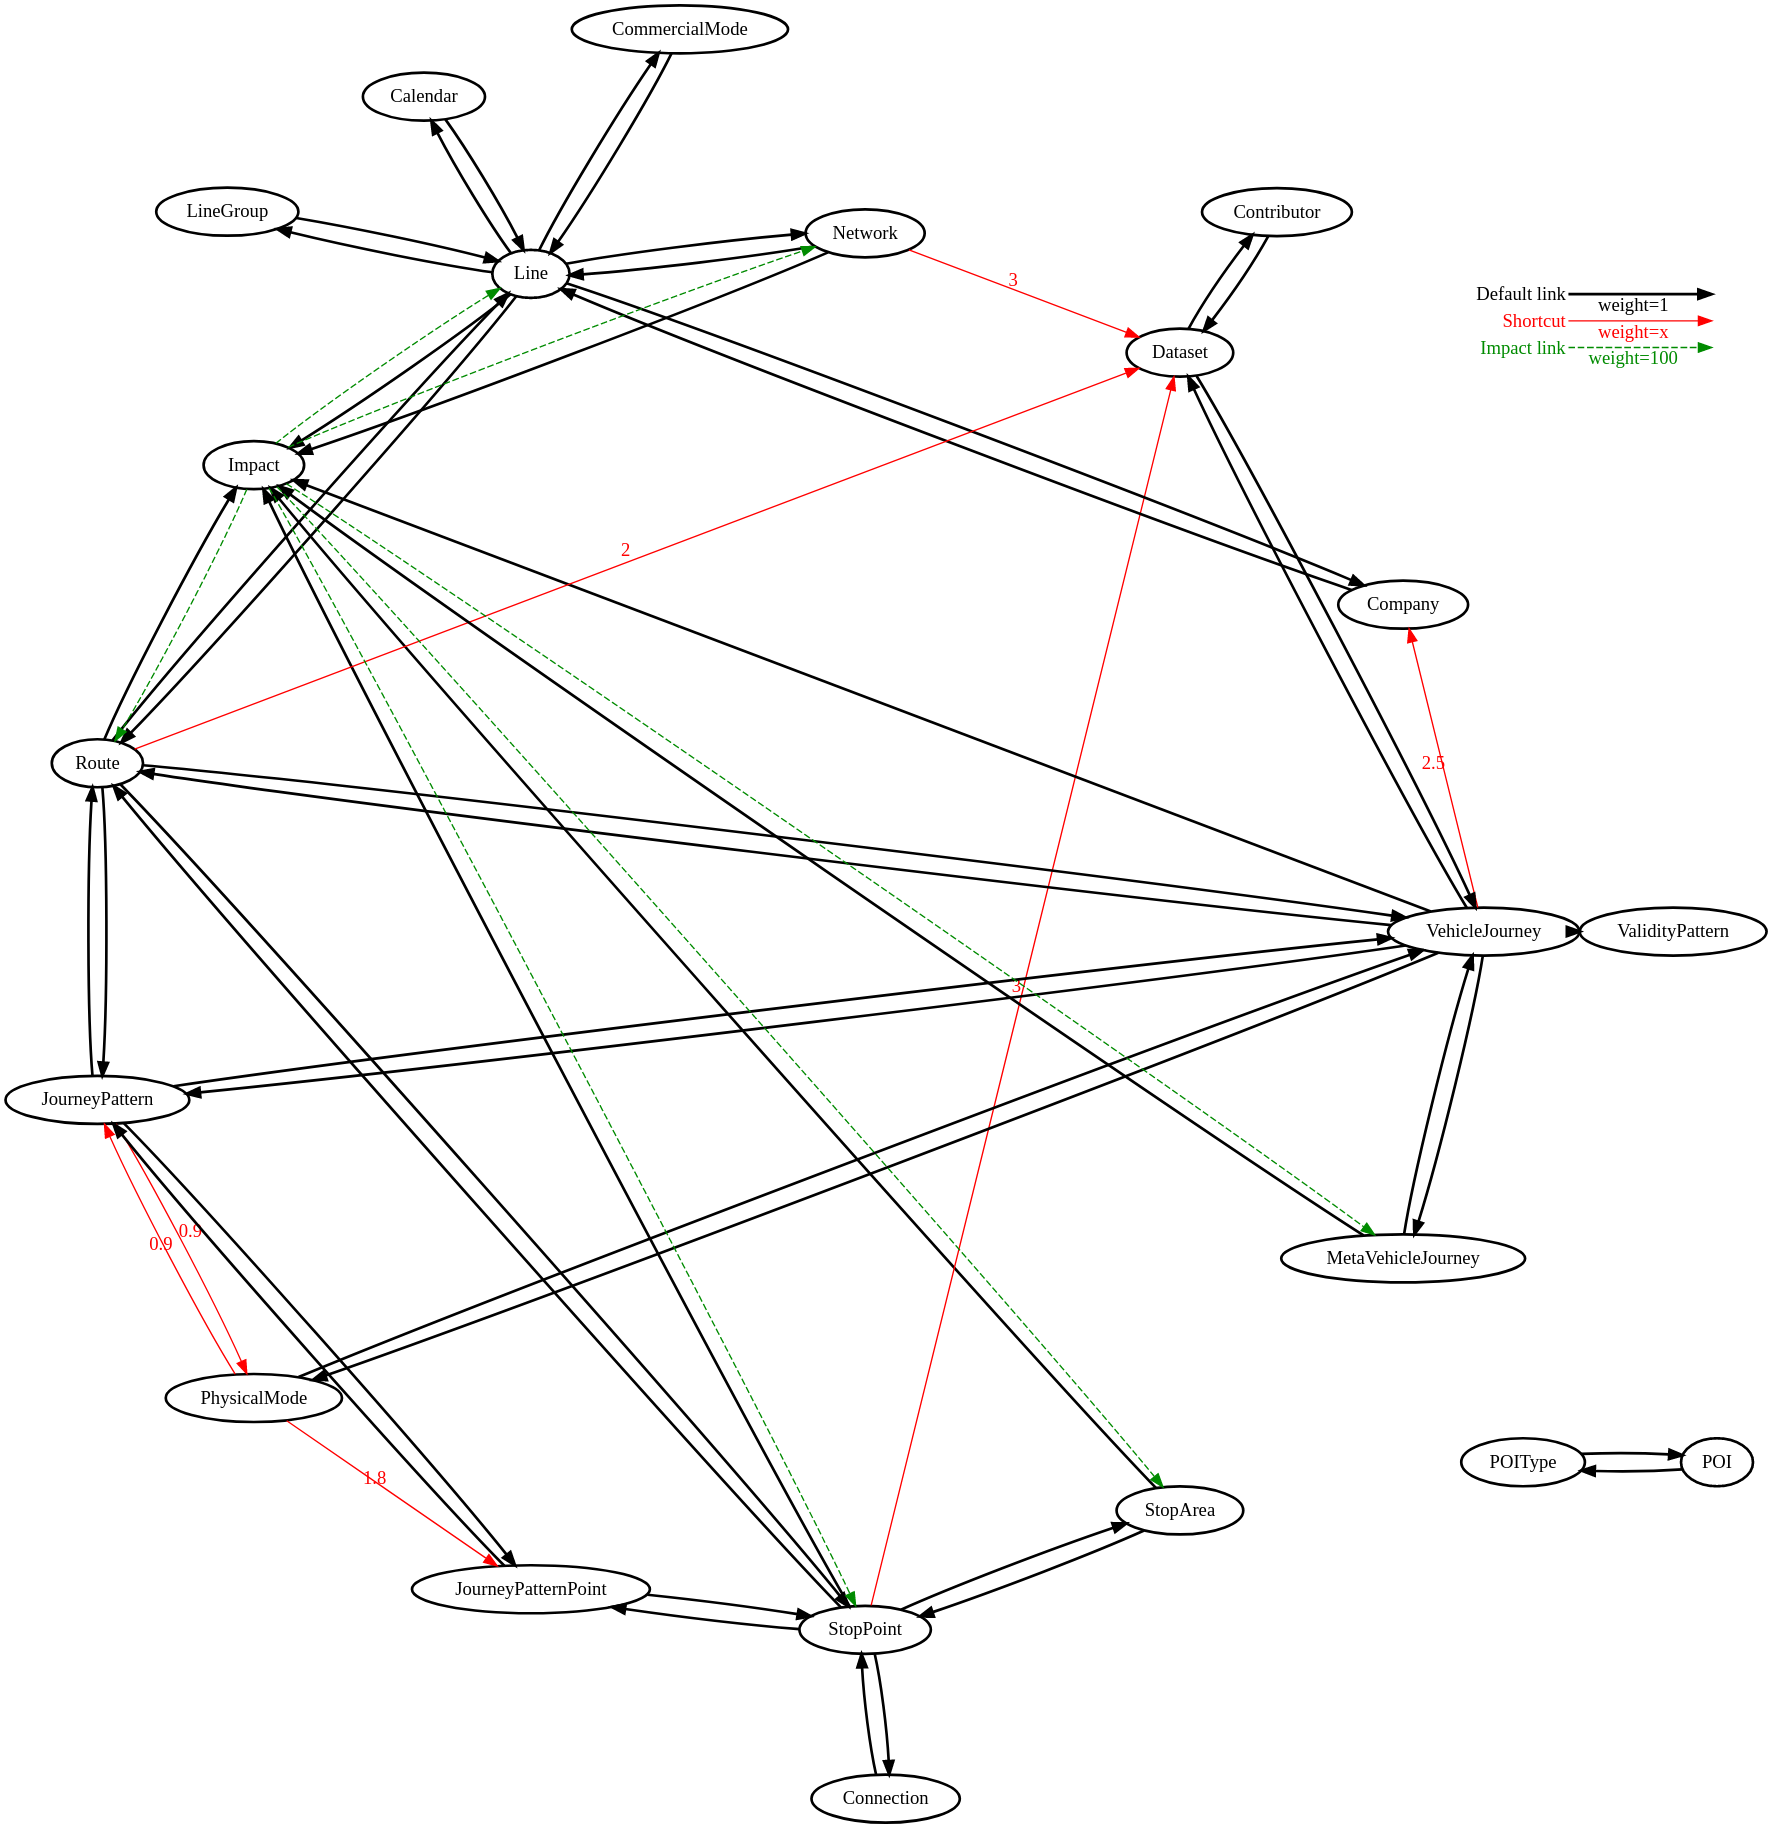
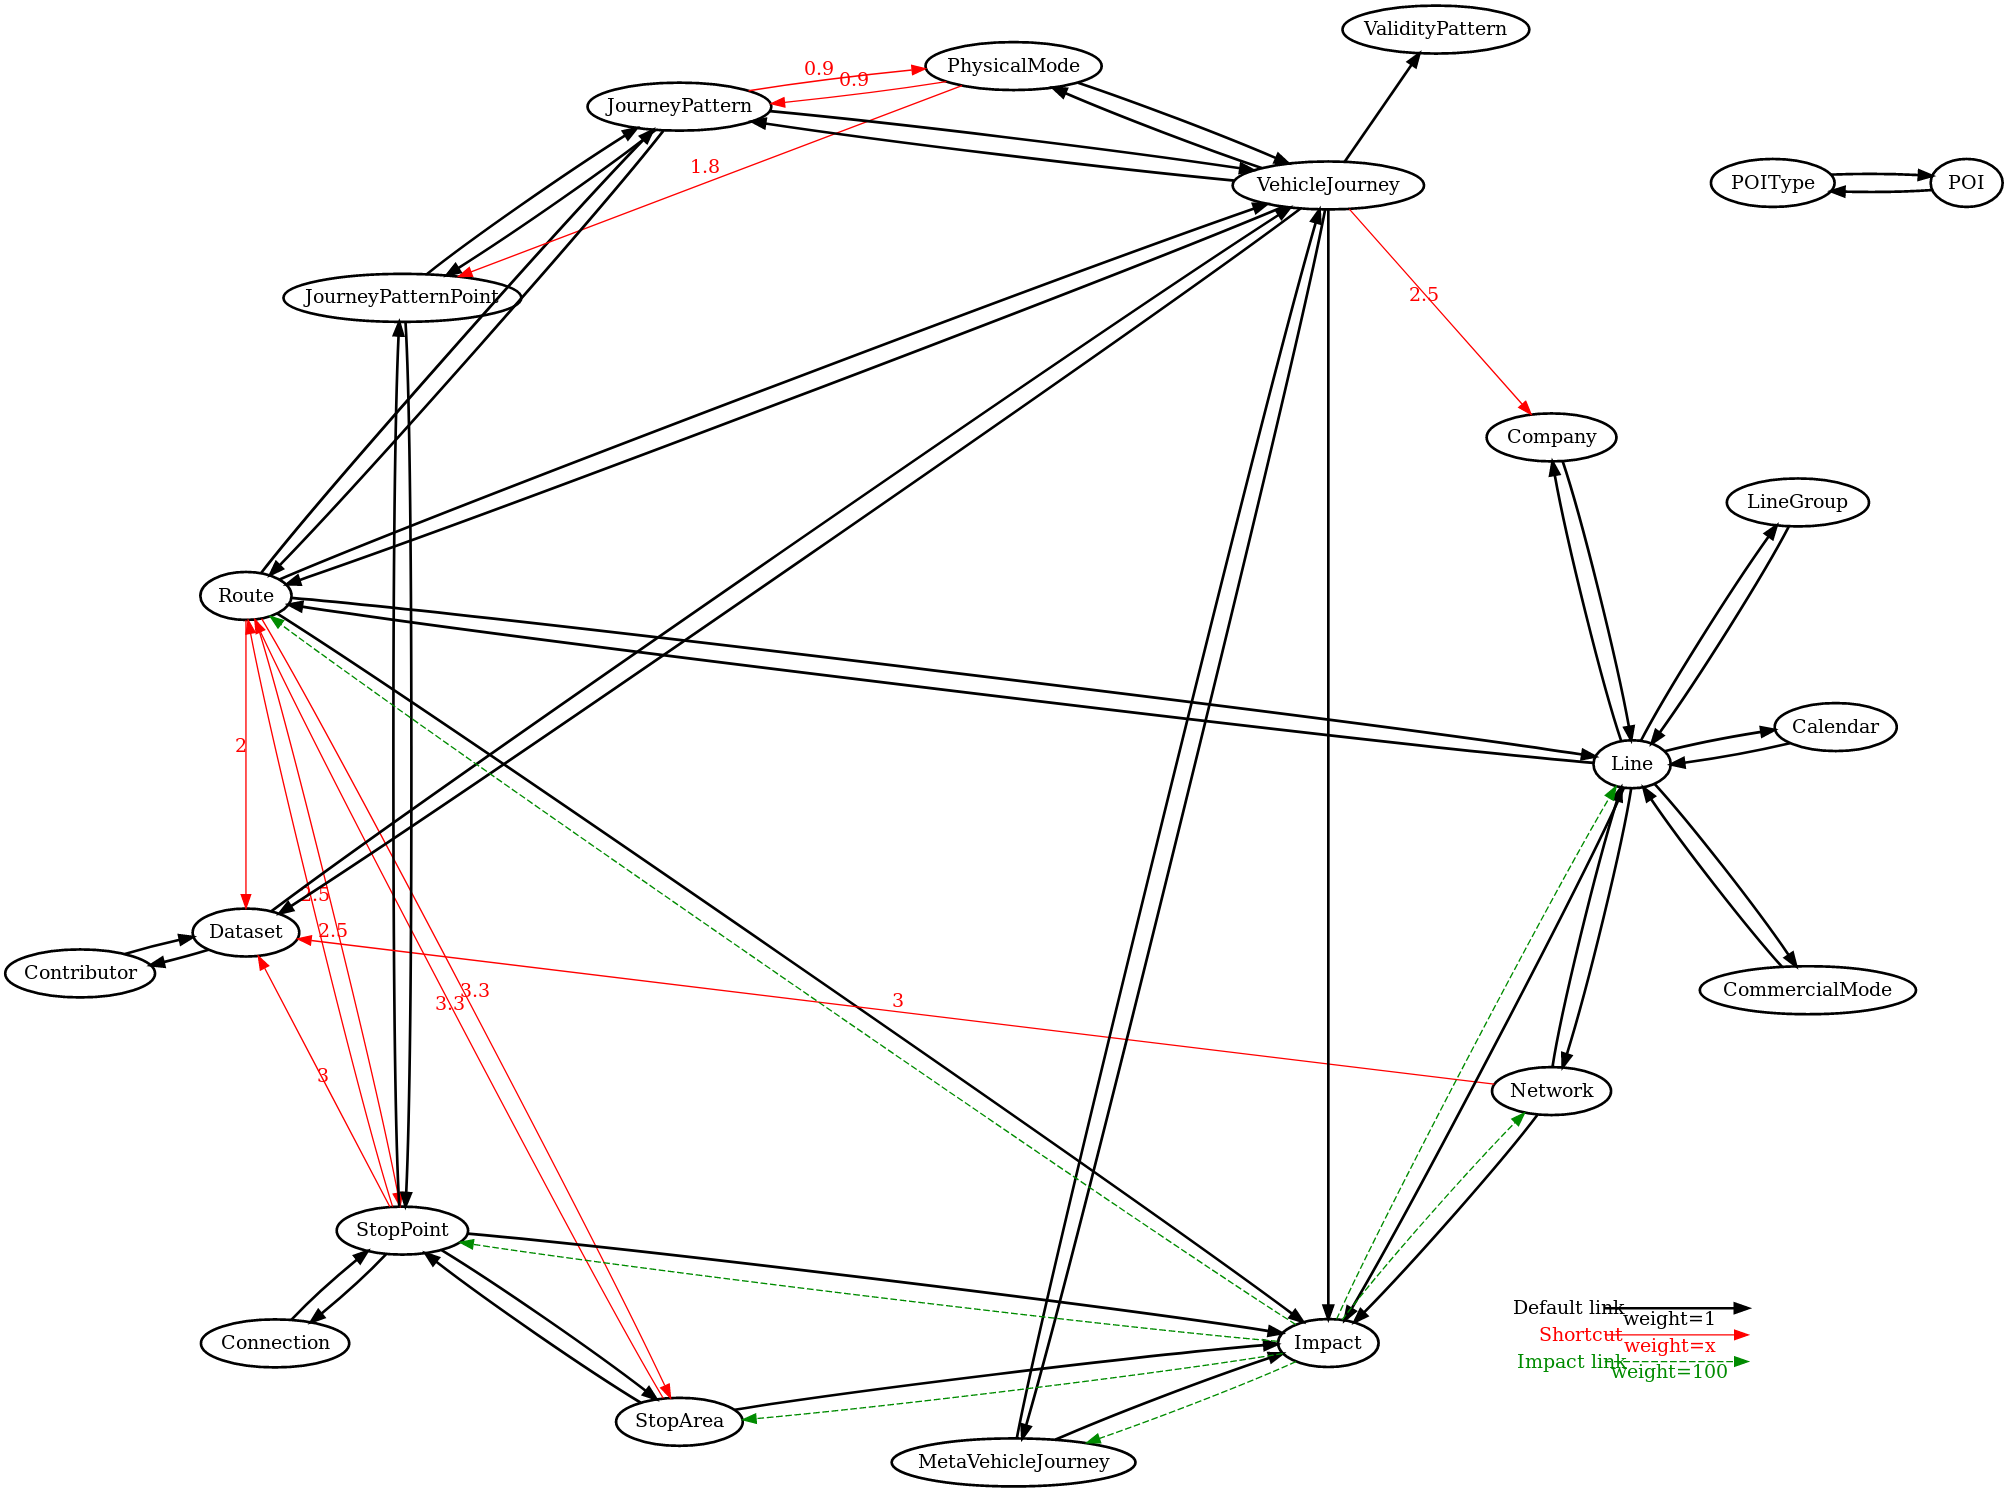
PTRef: Doc - update graph
Added Route <-> StopPoint (2.5)
and Route <-> StopArea (3.3)

diff --git a/documentation/rfc/ptref_grammar.md b/documentation/rfc/ptref_grammar.md
@@ -173,7 +173,7 @@ The graph is as follow (edges may have weight to avoid unwanted behavior):
 
 ![pt_graph](../diagrams/pt_graph.png)
 
-[edit_graph](https://dreampuf.github.io/GraphvizOnline/#%0Adigraph%20G%20%7B%0A%20%20%20%20subgraph%20cluster_0%20%7B%0A%20%20%20%20%20%20%20%20node%20%5Bstyle%3D%22bold%22%5D%0A%20%20%20%20%20%20%20%20StopArea%20-%3E%20StopPoint%20%5Bstyle%3D%22bold%22%5D%0A%20%20%20%20%20%20%20%20Network%20-%3E%20Line%20%5Bstyle%3D%22bold%22%5D%0A%20%20%20%20%20%20%20%20Company%20-%3E%20Line%20%5Bstyle%3D%22bold%22%5D%0A%20%20%20%20%20%20%20%20CommercialMode%20-%3E%20Line%20%5Bstyle%3D%22bold%22%5D%0A%20%20%20%20%20%20%20%20PhysicalMode%20-%3E%20VehicleJourney%20%5Bstyle%3D%22bold%22%5D%0A%20%20%20%20%20%20%20%20PhysicalMode%20-%3E%20JourneyPattern%20%5B%20label%3D%220.9%22%20fontcolor%3D%22red%22%20color%3D%22red%22%20%5D%0A%20%20%20%20%20%20%20%20PhysicalMode%20-%3E%20JourneyPatternPoint%20%5B%20label%3D%221.8%22%20fontcolor%3D%22red%22%20color%3D%22red%22%20%5D%0A%20%20%20%20%20%20%20%20Line%20-%3E%20CommercialMode%20%5Bstyle%3D%22bold%22%5D%0A%20%20%20%20%20%20%20%20Line%20-%3E%20Company%20%5Bstyle%3D%22bold%22%5D%0A%20%20%20%20%20%20%20%20Line%20-%3E%20Network%20%5Bstyle%3D%22bold%22%5D%0A%20%20%20%20%20%20%20%20Line%20-%3E%20Route%20%5Bstyle%3D%22bold%22%5D%0A%20%20%20%20%20%20%20%20Route%20-%3E%20JourneyPattern%20%5Bstyle%3D%22bold%22%5D%0A%20%20%20%20%20%20%20%20Route%20-%3E%20Line%20%5Bstyle%3D%22bold%22%5D%0A%20%20%20%20%20%20%20%20Route%20-%3E%20VehicleJourney%20%5Bstyle%3D%22bold%22%5D%0A%20%20%20%20%20%20%20%20Route%20-%3E%20StopPoint%20%5B%20style%3D%22bold%22%20%5D%0A%20%20%20%20%20%20%20%20JourneyPattern%20-%3E%20Route%20%5Bstyle%3D%22bold%22%5D%0A%20%20%20%20%20%20%20%20JourneyPattern%20-%3E%20JourneyPatternPoint%20%5Bstyle%3D%22bold%22%5D%0A%20%20%20%20%20%20%20%20JourneyPattern%20-%3E%20VehicleJourney%20%5Bstyle%3D%22bold%22%5D%0A%20%20%20%20%20%20%20%20JourneyPattern%20-%3E%20PhysicalMode%20%5B%20label%3D%220.9%22%20fontcolor%3D%22red%22%20color%3D%22red%22%20%5D%0A%20%20%20%20%20%20%20%20VehicleJourney%20-%3E%20Route%20%5Bstyle%3D%22bold%22%5D%0A%20%20%20%20%20%20%20%20VehicleJourney%20-%3E%20JourneyPattern%20%5Bstyle%3D%22bold%22%5D%0A%20%20%20%20%20%20%20%20VehicleJourney%20-%3E%20Company%20%5B%20label%3D%222.5%22%20fontcolor%3D%22red%22%20color%3D%22red%22%20%5D%0A%20%20%20%20%20%20%20%20VehicleJourney%20-%3E%20PhysicalMode%20%5Bstyle%3D%22bold%22%5D%0A%20%20%20%20%20%20%20%20VehicleJourney%20-%3E%20ValidityPattern%20%5Bstyle%3D%22bold%22%5D%20%0A%20%20%20%20%20%20%20%20VehicleJourney%20-%3E%20MetaVehicleJourney%20%5Bstyle%3D%22bold%22%5D%0A%20%20%20%20%20%20%20%20VehicleJourney%20-%3E%20Dataset%20%5Bstyle%3D%22bold%22%5D%0A%20%20%20%20%20%20%20%20JourneyPatternPoint%20-%3E%20JourneyPattern%20%5Bstyle%3D%22bold%22%5D%0A%20%20%20%20%20%20%20%20JourneyPatternPoint%20-%3E%20StopPoint%20%5Bstyle%3D%22bold%22%5D%20%0A%20%20%20%20%20%20%20%20StopPoint%20-%3E%20StopArea%20%5Bstyle%3D%22bold%22%5D%0A%20%20%20%20%20%20%20%20StopPoint%20-%3E%20JourneyPatternPoint%20%5Bstyle%3D%22bold%22%5D%0A%20%20%20%20%20%20%20%20StopPoint%20-%3E%20Connection%20%5Bstyle%3D%22bold%22%5D%0A%20%20%20%20%20%20%20%20StopPoint%20-%3E%20Route%20%5B%20style%3D%22bold%22%20%5D%0A%20%20%20%20%20%20%20%20Connection%20-%3E%20StopPoint%20%5Bstyle%3D%22bold%22%5D%0A%20%20%20%20%20%20%20%20POIType%20-%3E%20POI%20%5Bstyle%3D%22bold%22%5D%0A%20%20%20%20%20%20%20%20POI%20-%3E%20POIType%20%5Bstyle%3D%22bold%22%5D%0A%20%20%20%20%20%20%20%20Line%20-%3E%20Calendar%20%5Bstyle%3D%22bold%22%5D%0A%20%20%20%20%20%20%20%20Calendar%20-%3E%20Line%20%5Bstyle%3D%22bold%22%5D%0A%20%20%20%20%20%20%20%20Line%20-%3E%20LineGroup%20%5Bstyle%3D%22bold%22%5D%0A%20%20%20%20%20%20%20%20LineGroup%20-%3E%20Line%20%5Bstyle%3D%22bold%22%5D%0A%20%20%20%20%20%20%20%20MetaVehicleJourney%20-%3E%20VehicleJourney%20%5Bstyle%3D%22bold%22%5D%0A%20%20%20%20%20%20%20%20Dataset%20-%3E%20Contributor%20%5Bstyle%3D%22bold%22%5D%0A%20%20%20%20%20%20%20%20Dataset%20-%3E%20VehicleJourney%20%5Bstyle%3D%22bold%22%5D%0A%20%20%20%20%20%20%20%20Contributor%20-%3E%20Dataset%20%5Bstyle%3D%22bold%22%5D%0A%20%20%20%20%20%20%20%20Route%20-%3E%20Dataset%20%5B%20label%3D%222%22%20fontcolor%3D%22red%22%20color%3D%22red%22%20%5D%0A%20%20%20%20%20%20%20%20StopPoint%20-%3E%20Dataset%20%5B%20label%3D%223%22%20fontcolor%3D%22red%22%20color%3D%22red%22%20%5D%0A%20%20%20%20%20%20%20%20Network%20-%3E%20Dataset%20%5B%20label%3D%223%22%20fontcolor%3D%22red%22%20color%3D%22red%22%20%5D%0A%20%20%20%20%20%20%20%20StopPoint%20-%3E%20Impact%20%5Bstyle%3D%22bold%22%5D%0A%20%20%20%20%20%20%20%20Line%20-%3E%20Impact%20%5Bstyle%3D%22bold%22%5D%0A%20%20%20%20%20%20%20%20Route%20-%3E%20Impact%20%5Bstyle%3D%22bold%22%5D%0A%20%20%20%20%20%20%20%20StopArea%20-%3E%20Impact%20%5Bstyle%3D%22bold%22%5D%0A%20%20%20%20%20%20%20%20Network%20-%3E%20Impact%20%5Bstyle%3D%22bold%22%5D%0A%20%20%20%20%20%20%20%20VehicleJourney%20-%3E%20Impact%20%5Bstyle%3D%22bold%22%5D%0A%20%20%20%20%20%20%20%20MetaVehicleJourney%20-%3E%20Impact%20%5Bstyle%3D%22bold%22%5D%0A%20%20%20%20%20%20%20%20Impact%20-%3E%20Network%20%20%5B%20style%3D%22dashed%22%20fontcolor%3D%22green4%22%20color%3D%22green4%22%20%5D%0A%20%20%20%20%20%20%20%20Impact%20-%3E%20Line%20%20%5B%20style%3D%22dashed%22%20fontcolor%3D%22green4%22%20color%3D%22green4%22%20%5D%0A%20%20%20%20%20%20%20%20Impact%20-%3E%20Route%20%20%5B%20style%3D%22dashed%22%20fontcolor%3D%22green4%22%20color%3D%22green4%22%20%5D%0A%20%20%20%20%20%20%20%20Impact%20-%3E%20StopArea%20%20%5B%20style%3D%22dashed%22%20fontcolor%3D%22green4%22%20color%3D%22green4%22%20%5D%0A%20%20%20%20%20%20%20%20Impact%20-%3E%20StopPoint%20%20%5B%20style%3D%22dashed%22%20fontcolor%3D%22green4%22%20color%3D%22green4%22%20%5D%0A%20%20%20%20%20%20%20%20Impact%20-%3E%20MetaVehicleJourney%20%20%5B%20style%3D%22dashed%22%20fontcolor%3D%22green4%22%20color%3D%22green4%22%20%5D%0A%20%20%20%20%7D%0A%0A%20%20%20%20subgraph%20cluster_1%20%7B%0A%20%20%20%20%20%20%20%20%23rank%3Dsink%0A%20%20%20%20%20%20%20%20%23rankdir%3DLR%0A%20%20%20%20%20%20%20%20node%20%5Bshape%3Dplaintext%5D%0A%20%20%20%20%20%20%20%20style%3D%22filled%22%0A%20%20%20%20%20%20%20%20style%3Dfilled%0A%09%09color%3Dlightgrey%0A%20%20%20%20%20%20%20%20%23label%20%3D%20%22Legend%22%3B%0A%20%20%20%20%20%20%20%20key%20%5Blabel%3D%3C%3Ctable%20border%3D%220%22%20cellpadding%3D%222%22%20cellspacing%3D%220%22%20cellborder%3D%220%22%3E%0A%20%20%20%20%20%20%20%20%20%20%3Ctr%3E%3Ctd%20align%3D%22right%22%20port%3D%22i1%22%3E%3Cfont%20color%3D%22black%22%3EDefault%20link%3C%2Ffont%3E%3C%2Ftd%3E%3C%2Ftr%3E%0A%20%20%20%20%20%20%20%20%20%20%3Ctr%3E%3Ctd%20align%3D%22right%22%20port%3D%22i2%22%3E%3Cfont%20color%3D%22red%22%3EShortcut%3C%2Ffont%3E%3C%2Ftd%3E%3C%2Ftr%3E%0A%20%20%20%20%20%20%20%20%20%20%3Ctr%3E%3Ctd%20align%3D%22right%22%20port%3D%22i3%22%3E%3Cfont%20color%3D%22green4%22%3EImpact%20link%3C%2Ffont%3E%3C%2Ftd%3E%3C%2Ftr%3E%0A%20%20%20%20%20%20%20%20%20%20%3C%2Ftable%3E%3E%5D%0A%20%20%20%20%20%20%20%20key2%20%5Blabel%3D%3C%3Ctable%20border%3D%220%22%20cellpadding%3D%222%22%20cellspacing%3D%220%22%20cellborder%3D%220%22%3E%0A%20%20%20%20%20%20%20%20%20%20%3Ctr%3E%3Ctd%20port%3D%22i1%22%3E%26nbsp%3B%3C%2Ftd%3E%3C%2Ftr%3E%0A%20%20%20%20%20%20%20%20%20%20%3Ctr%3E%3Ctd%20port%3D%22i2%22%3E%26nbsp%3B%3C%2Ftd%3E%3C%2Ftr%3E%0A%20%20%20%20%20%20%20%20%20%20%3Ctr%3E%3Ctd%20port%3D%22i3%22%3E%26nbsp%3B%3C%2Ftd%3E%3C%2Ftr%3E%0A%20%20%20%20%20%20%20%20%20%20%3C%2Ftable%3E%3E%5D%0A%20%20%20%20%20%20%20%20key%3Ai1%3Ae%20-%3E%20key2%3Ai1%3Aw%20%5B%20label%3D%22weight%3D1%22%20style%3D%22bold%22%5D%0A%20%20%20%20%20%20%20%20key%3Ai2%3Ae%20-%3E%20key2%3Ai2%3Aw%20%5B%20label%3D%22weight%3Dx%22%20fontcolor%3D%22red%22%20color%3D%22red%22%20%5D%0A%20%20%20%20%20%20%20%20key%3Ai3%3Ae%20-%3E%20key2%3Ai3%3Aw%20%5B%20label%3D%22weight%3D100%22%20style%3D%22dashed%22%20fontcolor%3D%22green4%22%20color%3D%22green4%22%20%5D%0A%20%20%20%20%20%20%7D%0A%20%20%0A%7D)
+[edit_graph](https://dreampuf.github.io/GraphvizOnline/#%0Adigraph%20G%20%7B%0A%20%20%20%20layout%3D%22circo%22%0A%20%20%20%20subgraph%20cluster_0%20%7B%0A%20%20%20%20%20%20%20%20node%20%5Bstyle%3D%22bold%22%5D%0A%20%20%20%20%20%20%20%20edge%20%5Bstyle%3D%22bold%22%5D%0A%0A%20%20%20%20%20%20%20%20StopArea%20-%3E%20Route%20%5Blabel%3D%223.3%22%20fontcolor%3D%22red%22%20color%3D%22red%22%20style%3D%22normal%22%5D%0A%20%20%20%20%20%20%20%20StopArea%20-%3E%20StopPoint%0A%20%20%20%20%20%20%20%20Network%20-%3E%20Line%0A%20%20%20%20%20%20%20%20Company%20-%3E%20Line%0A%20%20%20%20%20%20%20%20CommercialMode%20-%3E%20Line%0A%20%20%20%20%20%20%20%20PhysicalMode%20-%3E%20VehicleJourney%0A%20%20%20%20%20%20%20%20PhysicalMode%20-%3E%20JourneyPattern%20%5Blabel%3D%220.9%22%20fontcolor%3D%22red%22%20color%3D%22red%22%20style%3D%22normal%22%5D%0A%20%20%20%20%20%20%20%20PhysicalMode%20-%3E%20JourneyPatternPoint%20%5Blabel%3D%221.8%22%20fontcolor%3D%22red%22%20color%3D%22red%22%20style%3D%22normal%22%5D%0A%20%20%20%20%20%20%20%20Line%20-%3E%20CommercialMode%0A%20%20%20%20%20%20%20%20Line%20-%3E%20Company%0A%20%20%20%20%20%20%20%20Line%20-%3E%20Network%0A%20%20%20%20%20%20%20%20Line%20-%3E%20Route%0A%20%20%20%20%20%20%20%20Route%20-%3E%20JourneyPattern%0A%20%20%20%20%20%20%20%20Route%20-%3E%20Line%0A%20%20%20%20%20%20%20%20Route%20-%3E%20VehicleJourney%0A%20%20%20%20%20%20%20%20Route%20-%3E%20StopPoint%20%5Blabel%3D%222.5%22%20fontcolor%3D%22red%22%20color%3D%22red%22%20style%3D%22normal%22%5D%0A%20%20%20%20%20%20%20%20Route%20-%3E%20StopArea%20%5Blabel%3D%223.3%22%20fontcolor%3D%22red%22%20color%3D%22red%22%20style%3D%22normal%22%5D%0A%20%20%20%20%20%20%20%20JourneyPattern%20-%3E%20Route%0A%20%20%20%20%20%20%20%20JourneyPattern%20-%3E%20JourneyPatternPoint%0A%20%20%20%20%20%20%20%20JourneyPattern%20-%3E%20VehicleJourney%0A%20%20%20%20%20%20%20%20JourneyPattern%20-%3E%20PhysicalMode%20%5Blabel%3D%220.9%22%20fontcolor%3D%22red%22%20color%3D%22red%22%20style%3D%22normal%22%5D%0A%20%20%20%20%20%20%20%20VehicleJourney%20-%3E%20Route%0A%20%20%20%20%20%20%20%20VehicleJourney%20-%3E%20JourneyPattern%0A%20%20%20%20%20%20%20%20VehicleJourney%20-%3E%20Company%20%5Blabel%3D%222.5%22%20fontcolor%3D%22red%22%20color%3D%22red%22%20style%3D%22normal%22%5D%0A%20%20%20%20%20%20%20%20VehicleJourney%20-%3E%20PhysicalMode%0A%20%20%20%20%20%20%20%20VehicleJourney%20-%3E%20ValidityPattern%0A%20%20%20%20%20%20%20%20VehicleJourney%20-%3E%20MetaVehicleJourney%0A%20%20%20%20%20%20%20%20VehicleJourney%20-%3E%20Dataset%0A%20%20%20%20%20%20%20%20JourneyPatternPoint%20-%3E%20JourneyPattern%0A%20%20%20%20%20%20%20%20JourneyPatternPoint%20-%3E%20StopPoint%0A%20%20%20%20%20%20%20%20StopPoint%20-%3E%20StopArea%0A%20%20%20%20%20%20%20%20StopPoint%20-%3E%20JourneyPatternPoint%0A%20%20%20%20%20%20%20%20StopPoint%20-%3E%20Connection%0A%20%20%20%20%20%20%20%20StopPoint%20-%3E%20Route%20%5Blabel%3D%222.5%22%20fontcolor%3D%22red%22%20color%3D%22red%22%20style%3D%22normal%22%5D%0A%20%20%20%20%20%20%20%20Connection%20-%3E%20StopPoint%0A%20%20%20%20%20%20%20%20POIType%20-%3E%20POI%0A%20%20%20%20%20%20%20%20POI%20-%3E%20POIType%0A%20%20%20%20%20%20%20%20Line%20-%3E%20Calendar%0A%20%20%20%20%20%20%20%20Calendar%20-%3E%20Line%0A%20%20%20%20%20%20%20%20Line%20-%3E%20LineGroup%0A%20%20%20%20%20%20%20%20LineGroup%20-%3E%20Line%0A%20%20%20%20%20%20%20%20MetaVehicleJourney%20-%3E%20VehicleJourney%0A%20%20%20%20%20%20%20%20Dataset%20-%3E%20Contributor%0A%20%20%20%20%20%20%20%20Dataset%20-%3E%20VehicleJourney%0A%20%20%20%20%20%20%20%20Contributor%20-%3E%20Dataset%0A%20%20%20%20%20%20%20%20Route%20-%3E%20Dataset%20%5Blabel%3D%222%22%20fontcolor%3D%22red%22%20color%3D%22red%22%20style%3D%22normal%22%5D%0A%20%20%20%20%20%20%20%20StopPoint%20-%3E%20Dataset%20%5Blabel%3D%223%22%20fontcolor%3D%22red%22%20color%3D%22red%22%20style%3D%22normal%22%5D%0A%20%20%20%20%20%20%20%20Network%20-%3E%20Dataset%20%5Blabel%3D%223%22%20fontcolor%3D%22red%22%20color%3D%22red%22%20style%3D%22normal%22%5D%0A%20%20%20%20%20%20%20%20StopPoint%20-%3E%20Impact%0A%20%20%20%20%20%20%20%20Line%20-%3E%20Impact%0A%20%20%20%20%20%20%20%20Route%20-%3E%20Impact%0A%20%20%20%20%20%20%20%20StopArea%20-%3E%20Impact%0A%20%20%20%20%20%20%20%20Network%20-%3E%20Impact%0A%20%20%20%20%20%20%20%20VehicleJourney%20-%3E%20Impact%0A%20%20%20%20%20%20%20%20MetaVehicleJourney%20-%3E%20Impact%0A%20%20%20%20%20%20%20%20Impact%20-%3E%20Network%20%20%5Bstyle%3D%22dashed%22%20fontcolor%3D%22green4%22%20color%3D%22green4%22%5D%0A%20%20%20%20%20%20%20%20Impact%20-%3E%20Line%20%20%5Bstyle%3D%22dashed%22%20fontcolor%3D%22green4%22%20color%3D%22green4%22%5D%0A%20%20%20%20%20%20%20%20Impact%20-%3E%20Route%20%20%5Bstyle%3D%22dashed%22%20fontcolor%3D%22green4%22%20color%3D%22green4%22%5D%0A%20%20%20%20%20%20%20%20Impact%20-%3E%20StopArea%20%20%5Bstyle%3D%22dashed%22%20fontcolor%3D%22green4%22%20color%3D%22green4%22%5D%0A%20%20%20%20%20%20%20%20Impact%20-%3E%20StopPoint%20%20%5Bstyle%3D%22dashed%22%20fontcolor%3D%22green4%22%20color%3D%22green4%22%5D%0A%20%20%20%20%20%20%20%20Impact%20-%3E%20MetaVehicleJourney%20%20%5Bstyle%3D%22dashed%22%20fontcolor%3D%22green4%22%20color%3D%22green4%22%5D%0A%20%20%20%20%7D%0A%0A%20%20%20%20subgraph%20cluster_1%20%7B%0A%20%20%20%20%20%20%20%20%23rank%3Dsink%0A%20%20%20%20%20%20%20%20%23rankdir%3DLR%0A%20%20%20%20%20%20%20%20node%20%5Bshape%3Dplaintext%5D%0A%20%20%20%20%20%20%20%20style%3D%22filled%22%0A%20%20%20%20%20%20%20%20style%3Dfilled%0A%09%09color%3Dlightgrey%0A%20%20%20%20%20%20%20%20%23label%20%3D%20%22Legend%22%3B%0A%20%20%20%20%20%20%20%20key%20%5Blabel%3D%3C%3Ctable%20border%3D%220%22%20cellpadding%3D%222%22%20cellspacing%3D%220%22%20cellborder%3D%220%22%3E%0A%20%20%20%20%20%20%20%20%20%20%3Ctr%3E%3Ctd%20align%3D%22right%22%20port%3D%22i1%22%3E%3Cfont%20color%3D%22black%22%3EDefault%20link%3C%2Ffont%3E%3C%2Ftd%3E%3C%2Ftr%3E%0A%20%20%20%20%20%20%20%20%20%20%3Ctr%3E%3Ctd%20align%3D%22right%22%20port%3D%22i2%22%3E%3Cfont%20color%3D%22red%22%3EShortcut%3C%2Ffont%3E%3C%2Ftd%3E%3C%2Ftr%3E%0A%20%20%20%20%20%20%20%20%20%20%3Ctr%3E%3Ctd%20align%3D%22right%22%20port%3D%22i3%22%3E%3Cfont%20color%3D%22green4%22%3EImpact%20link%3C%2Ffont%3E%3C%2Ftd%3E%3C%2Ftr%3E%0A%20%20%20%20%20%20%20%20%20%20%3C%2Ftable%3E%3E%5D%0A%20%20%20%20%20%20%20%20key2%20%5Blabel%3D%3C%3Ctable%20border%3D%220%22%20cellpadding%3D%222%22%20cellspacing%3D%220%22%20cellborder%3D%220%22%3E%0A%20%20%20%20%20%20%20%20%20%20%3Ctr%3E%3Ctd%20port%3D%22i1%22%3E%26nbsp%3B%3C%2Ftd%3E%3C%2Ftr%3E%0A%20%20%20%20%20%20%20%20%20%20%3Ctr%3E%3Ctd%20port%3D%22i2%22%3E%26nbsp%3B%3C%2Ftd%3E%3C%2Ftr%3E%0A%20%20%20%20%20%20%20%20%20%20%3Ctr%3E%3Ctd%20port%3D%22i3%22%3E%26nbsp%3B%3C%2Ftd%3E%3C%2Ftr%3E%0A%20%20%20%20%20%20%20%20%20%20%3C%2Ftable%3E%3E%5D%0A%20%20%20%20%20%20%20%20key%3Ai1%3Ae%20-%3E%20key2%3Ai1%3Aw%20%5Blabel%3D%22weight%3D1%22%20style%3D%22bold%22%5D%0A%20%20%20%20%20%20%20%20key%3Ai2%3Ae%20-%3E%20key2%3Ai2%3Aw%20%5Blabel%3D%22weight%3Dx%22%20fontcolor%3D%22red%22%20color%3D%22red%22%20style%3D%22normal%22%5D%0A%20%20%20%20%20%20%20%20key%3Ai3%3Ae%20-%3E%20key2%3Ai3%3Aw%20%5Blabel%3D%22weight%3D100%22%20style%3D%22dashed%22%20fontcolor%3D%22green4%22%20color%3D%22green4%22%5D%0A%20%20%20%20%20%20%7D%0A%20%20%0A%7D) (use _circo_ engine and format as _png_)
 
 ## Advanced examples
 
